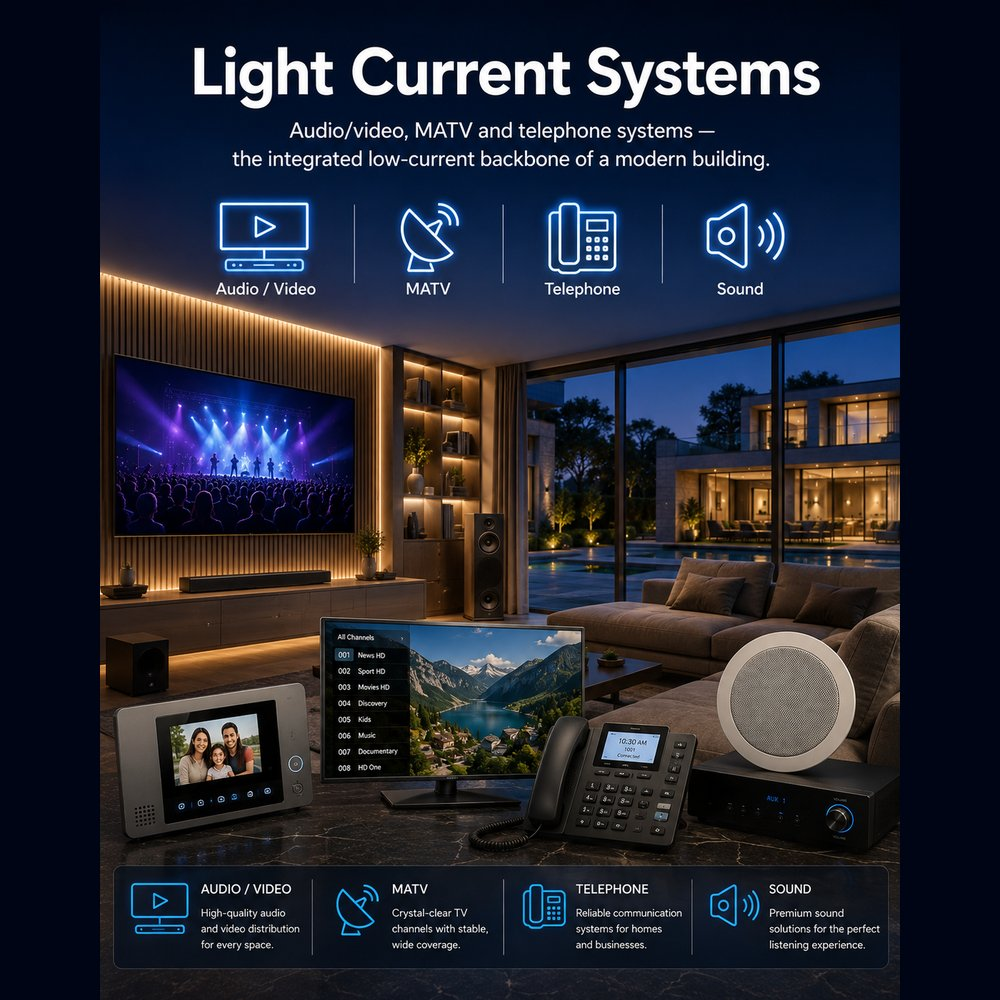
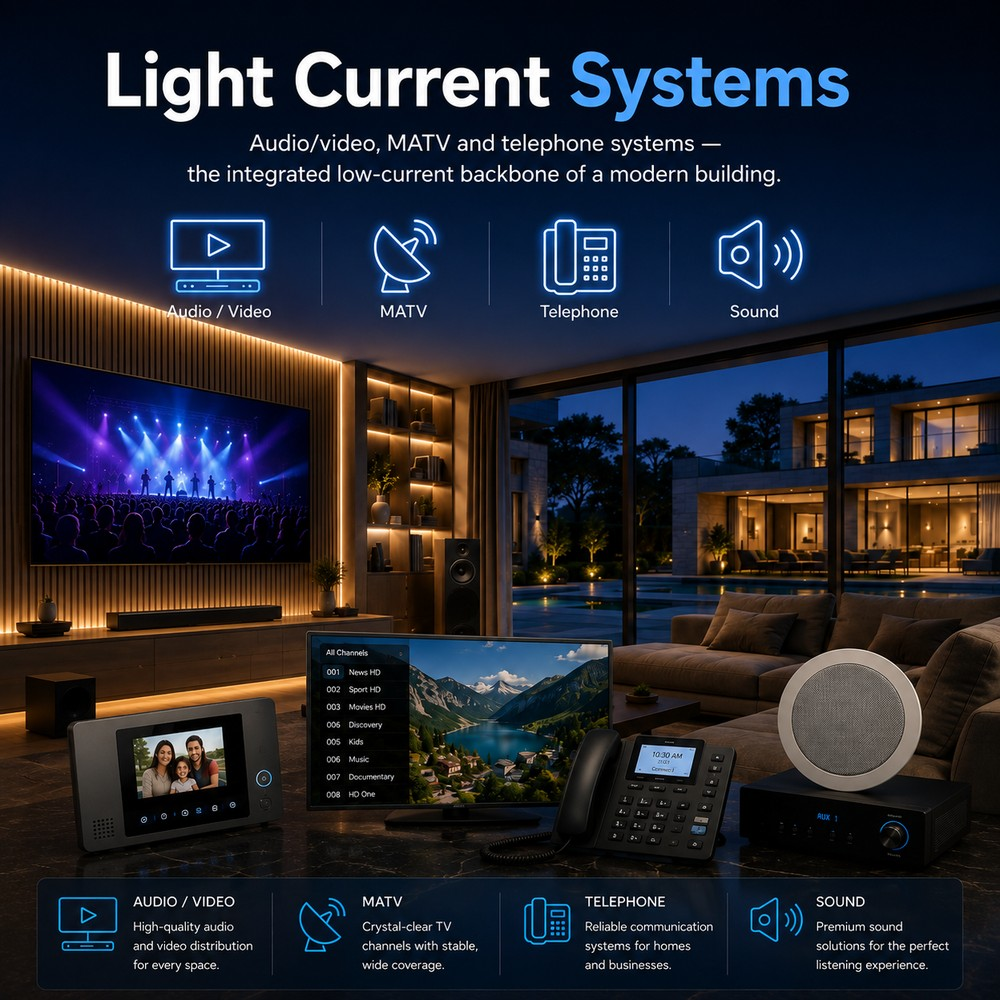
Add files via upload

diff --git a/index.html b/index.html
@@ -1237,14 +1237,25 @@ header.nav.scrolled .logo-img{height:36px}
     </div>
     <div class="pj-grid">
       <a class="pj fade" href="page.html?id=seagate-hq" data-c="commercial"><div class="thumb photo" style="background:url(assets/proj-burjkhalifa.jpg) center/cover"></div><div class="ov"><span class="tag">Commercial</span><h4>Seagate HQ — Burj Khalifa</h4><p>Corporate fit-out · Floor 146, Dubai</p></div></a>
+      <a class="pj fade" href="page.html?id=neptune-villa" data-c="residential"><div class="thumb photo" style="background:url(assets/proj-neptune.jpg) center/cover"></div><div class="ov"><span class="tag">Residential</span><h4>Neptune Floating Villa</h4><p>KNX, DALI, data & sound · Dubai</p></div></a>
       <a class="pj fade" href="page.html?id=tolip-hotel" data-c="hospitality"><div class="thumb photo" style="background:url(assets/proj-tolip.jpg) center/cover"></div><div class="ov"><span class="tag">Hospitality</span><h4>Tolip Hotel</h4><p>CCTV, IPTV, data network & sound</p></div></a>
+      <a class="pj fade" href="page.html?id=golden-hall" data-c="government"><div class="thumb photo" style="background:url(assets/proj-goldenhall.jpg) center/cover"></div><div class="ov"><span class="tag">Government</span><h4>Golden Hall — Eng. Authority</h4><p>KNX automation & AV system</p></div></a>
+      <a class="pj fade" href="page.html?id=hazaa-mosque" data-c="government"><div class="thumb photo" style="background:url(assets/proj-hazaa.jpg) center/cover"></div><div class="ov"><span class="tag">Government</span><h4>Sheikh Hazaa Mosque</h4><p>KNX & DALI lighting</p></div></a>
+      <a class="pj fade" href="page.html?id=lake-view" data-c="residential"><div class="thumb photo" style="background:url(assets/proj-lakeview.jpg) center/cover"></div><div class="ov"><span class="tag">Residential</span><h4>Lake View Residence</h4><p>Smart systems & integration</p></div></a>
+      <a class="pj fade" href="#projects" data-c="hospitality"><div class="thumb photo" style="background:url(assets/proj-taiyaki.jpg) center/cover"></div><div class="ov"><span class="tag">Hospitality</span><h4>Taiyaki Restaurant</h4><p>Data, CCTV, sound & electrical</p></div></a>
+      <a class="pj fade" href="#projects" data-c="commercial"><div class="thumb photo" style="background:url(assets/proj-aglab.jpg) center/cover"></div><div class="ov"><span class="tag">Commercial</span><h4>Aglab Offices</h4><p>Structured cabling, CCTV & access control</p></div></a>
       <a class="pj fade" href="page.html?id=peerage-residence" data-c="residential"><div class="thumb photo" style="background:url(assets/proj-peerage.jpg) center/cover"></div><div class="ov"><span class="tag">Residential</span><h4>Peerage Residence</h4><p>Smart residential systems · Riyadh</p></div></a>
+      <a class="pj fade" href="#projects" data-c="residential"><div class="thumb photo" style="background:url(assets/proj-villa-curved.jpg) center/cover"></div><div class="ov"><span class="tag">Residential</span><h4>Signature Villa</h4><p>Home automation, lighting & security</p></div></a>
       <a class="pj fade" href="page.html?id=atyab-farooj" data-c="hospitality"><div class="thumb photo" style="background:url(assets/proj-atyab.jpg) center/cover"></div><div class="ov"><span class="tag">Hospitality</span><h4>Atyab Farooj Restaurant</h4><p>ACS, data, CCTV, electrical & sound</p></div></a>
+      <a class="pj fade" href="#projects" data-c="residential"><div class="thumb photo" style="background:url(assets/proj-villa-bw.jpg) center/cover"></div><div class="ov"><span class="tag">Residential</span><h4>Contemporary Villa</h4><p>Lighting control, climate & CCTV</p></div></a>
+      <a class="pj fade" href="#projects" data-c="residential"><div class="thumb photo" style="background:url(assets/proj-villa-stone.jpg) center/cover"></div><div class="ov"><span class="tag">Residential</span><h4>Stone Villa</h4><p>KNX automation & smart lighting</p></div></a>
+      <a class="pj fade" href="#projects" data-c="residential"><div class="thumb photo" style="background:url(assets/proj-villa-glass.jpg) center/cover"></div><div class="ov"><span class="tag">Residential</span><h4>Glass House Villa</h4><p>Automation, security & sound</p></div></a>
+      <a class="pj fade" href="#projects" data-c="residential"><div class="thumb photo" style="background:url(assets/proj-townhouses.jpg) center/cover"></div><div class="ov"><span class="tag">Residential</span><h4>Modern Townhouses</h4><p>Smart lighting, network & CCTV</p></div></a>
+      <a class="pj fade" href="#projects" data-c="residential"><div class="thumb photo" style="background:url(assets/proj-villastreet.jpg) center/cover"></div><div class="ov"><span class="tag">Residential</span><h4>Residential Villas</h4><p>Home automation & security systems</p></div></a>
+      <a class="pj fade" href="#projects" data-c="residential"><div class="thumb photo" style="background:url(assets/proj-tower.jpg) center/cover"></div><div class="ov"><span class="tag">Residential</span><h4>Waterfront Tower</h4><p>Networking, CCTV & light current</p></div></a>
+      <a class="pj fade" href="#projects" data-c="commercial"><div class="thumb photo" style="background:url(assets/proj-marina.jpg) center/cover"></div><div class="ov"><span class="tag">Commercial</span><h4>Marina Boardwalk</h4><p>Sound system, CCTV & lighting</p></div></a>
+      <a class="pj fade" href="#projects" data-c="government"><div class="thumb photo" style="background:url(assets/proj-mosque2.jpg) center/cover"></div><div class="ov"><span class="tag">Government</span><h4>Grand Mosque</h4><p>Sound system, DALI lighting & CCTV</p></div></a>
       <a class="pj fade" href="page.html?id=superpark" data-c="commercial"><div class="thumb photo" style="background:url(assets/proj-superpark.jpg) center/cover"></div><div class="ov"><span class="tag">Commercial</span><h4>SuperPark — Mall of Arabia</h4><p>Digital signage system</p></div></a>
-      <a class="pj fade" href="page.html?id=neptune-villa" data-c="residential"><div class="thumb g5"><svg viewBox="0 0 24 24"><path d="M7 3h7l-1 7h4l-8 11 2-8H6l1-10z"/></svg></div><div class="ov"><span class="tag">Residential</span><h4>Neptune Floating Villa</h4><p>KNX, DALI, data & sound · Kempinski</p></div></a>
-      <a class="pj fade" href="page.html?id=lake-view" data-c="residential"><div class="thumb g6"><svg viewBox="0 0 24 24"><path d="M4 7h16M4 12h16M4 17h10M6 3v18"/></svg></div><div class="ov"><span class="tag">Residential</span><h4>Lake View Residence</h4><p>Smart parking & integration</p></div></a>
-      <a class="pj fade" href="page.html?id=golden-hall" data-c="government"><div class="thumb g8"><svg viewBox="0 0 24 24"><path d="M3 5h18v11H3zM8 20h8M12 16v4"/></svg></div><div class="ov"><span class="tag">Government</span><h4>Golden Hall — Eng. Authority</h4><p>KNX automation & AV system</p></div></a>
-      <a class="pj fade" href="page.html?id=hazaa-mosque" data-c="government"><div class="thumb g2"><svg viewBox="0 0 24 24"><path d="M12 2 4 6v6c0 5 3.5 8 8 10 4.5-2 8-5 8-10V6l-8-4z"/></svg></div><div class="ov"><span class="tag">Government</span><h4>Sheikh Hazaa Mosque</h4><p>KNX & DALI lighting · Abu Dhabi</p></div></a>
     </div>
   </div>
 </section>
